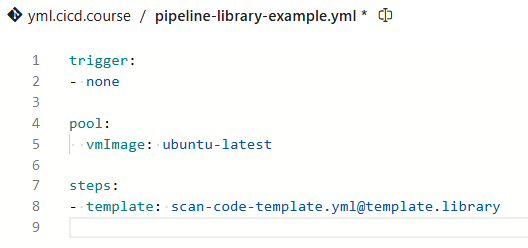
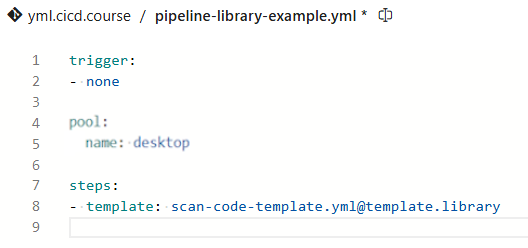
Initial commit

Changed region(s): [[0.1212, 0.4516, 0.5152, 0.621]]

diff --git a/README.md b/README.md
@@ -55,10 +55,10 @@ This workshop will cover a series of labs, in which you will learn to create eff
   <summary>Lab 2 - Tasks, Jobs, Stages and Dependencies</summary>
   
 * [Lab 2 - Tasks, Jobs, Stages and Dependencies](/Labs/lab2/lab2.md)
-  * [Separating Tasks into different Jobs](/Labs/lab2/lab2.md#exercise-21-separating-tasks-into-different-jobs)
-  * [Adding dependencies between Jobs](/Labs/lab2/lab2.md#exercise-22-adding-dependencies-between-jobs)
-  * [Splitting our pipeline into Stages](/Labs/lab2/lab2.md#exercise-23-splitting-our-pipeline-into-stages)
-  * [Dependencies between Stages](/Labs/lab2/lab2.md#exercise-24-adding-dependencies-between-jobs-and-stages)
+  * [Separating tasks into different jobs](/Labs/lab2/lab2.md#exercise-21-separating-tasks-into-different-jobs)
+  * [Adding dependencies between jobs](/Labs/lab2/lab2.md#exercise-22-adding-dependencies-between-jobs)
+  * [Splitting our pipeline into stages](/Labs/lab2/lab2.md#exercise-23-splitting-our-pipeline-into-stages)
+  * [Dependencies between stages](/Labs/lab2/lab2.md#exercise-24-adding-dependencies-between-jobs-and-stages)
   * [Approvals](/Labs/lab2/lab2.md#exercise-25-approvals)
 
 </details>
@@ -69,7 +69,7 @@ This workshop will cover a series of labs, in which you will learn to create eff
 * [Lab 3 - Working with Templates](labs/lab3/lab3.md)
   * [Load steps from templates](/Labs/lab3/lab3.md#exercise-31-load-steps-from-templates)
   * [Reusing stages with templates](/Labs/lab3/lab3.md#exercise-32-reusing-stages-with-templates)
-  * [Conditions](/Labs/lab3/lab3.md#exercise-33-conditions)
+  * [Conditional Execution](/Labs/lab3/lab3.md#exercise-33-conditions)
   * [Skipping stages](labs/lab3/lab3.md#exercise-34-skipping-stages)
 
 </details>
@@ -79,8 +79,8 @@ This workshop will cover a series of labs, in which you will learn to create eff
   
 * [Lab 4 - Triggers](/Labs/lab4/lab4.md)
   * [Working with triggers and branches](/Labs/lab4/lab4.md#exercise-4-1-working-with-triggers-and-branches)
-  * [Working with triggers and path](/Labs/lab4/lab4.md#exercise-42-working-with-triggers-and-path)
-  * [Scheduled Triggers](labs/lab4/lab4.md#exercise-43-scheduled-trigger)
+  * [Working with triggers and paths](/Labs/lab4/lab4.md#exercise-42-working-with-triggers-and-path)
+  * [Schedule Triggers](labs/lab4/lab4.md#exercise-43-scheduled-trigger)
   * [Pull Request Triggers](labs/lab4/lab4.md#exercise-44-pull-request-triggers)
 
 </details>
@@ -90,7 +90,7 @@ This workshop will cover a series of labs, in which you will learn to create eff
 
 * [Lab 5 - More Variables and Parameters](/Labs/lab5/lab5.md)
   * [5.1 Using Parameters](/Labs/lab5/lab5.md#exercise-51-using-parameters)
-  * [5.2 Local Variables](/Labs/lab5/lab5.md#exercise-52-local-variables)
+  * [5.2 Using Local Variables](/Labs/lab5/lab5.md#exercise-52-local-variables)
   * [5.3 Variable Template Files](/Labs/lab5/lab5.md#exercise-53-variable-template-files)
   * [5.4 Predefined Variables](/Labs/lab5/lab5.md#exercise-54-predefined-variables)
   * [5.5 Creating Variables in Code](/Labs/lab5/lab5.md#exercise-55-creating-variables-in-code)
@@ -121,11 +121,11 @@ This workshop will cover a series of labs, in which you will learn to create eff
   <summary>Lab 8 - Splitting CI and CD</summary>
 
 * [Lab 8 - Splitting CI and CD](/Labs/lab8/lab8.md)
-  * [Build pipelines and artifacts](labs/lab8/lab8.md#exercise-81-build-pipelines-and-artifacts)
-  * [Working with build artifacts](labs/lab8/lab8.md#exercise-82-working-with-build-artifacts)
+  * [Creating a Build pipeline and saving the artifacts](labs/lab8/lab8.md#exercise-81-build-pipelines-and-artifacts)
+  * [Creating a Release Pipeline using a pre-built artifact](labs/lab8/lab8.md#exercise-82-working-with-build-artifacts)
 
 </details>
 
 ## Origins
 
-This workshop is loosely based on [https://github.com/heoelri/adopac](a repository) that was initially created by `Rathish Ravikumar <rathishr@microsoft.com>` and `Heyko Oelrichs <heoelri@microsoft.com>` for an internal training and was then updated by `Lyle Luppes <lyleluppes@microsoft.com>` to add more modules and content.
+This workshop is loosely based on [a lab](https://github.com/heoelri/adopac) that was initially created by `Rathish Ravikumar` and `Heyko Oelrichs` of Microsoft for an internal training event, and was then updated by `Lyle Luppes` to add more modules and content.

diff --git a/Labs/lab3/lab3.md b/Labs/lab3/lab3.md
@@ -35,8 +35,6 @@ Let us start..
 
 This will now create new new `Starter pipeline` in our repository.
 
-![New Starter Pipeline](img/010_new_starter_pipeline.png)
-
 Let us give our new pipeline a name that is a bit better than the default azure-pipelines-1-yml.
 
 * Click on the filename
@@ -47,13 +45,15 @@ Let us use `starter-pipeline-with-template.yml`.
 
 ![Renamed Starter Pipeline](img/030_renamed_starter_pipeline.png)
 
-Now that we have created a new pipeline and renamed it successfully, let us now reference to a template that contains our additional steps/tasks.
+Now that we have created a new pipeline and renamed the file successfully, let us reference a template that contains our additional steps/tasks.
 
 To achieve this we can now add the following line to the end of our pipeline:
 
 ```yml
-- template: /.azdo/pipelines/templates/cowsay-template.yml
+- template: /.azdo/pipelines/templates/cowsay-emulated-template.yml
 ```
+
+> Note: in this example we are using the "emulated" cowsay template because Docker is not supported in the hosted lab VMs so therefore it is not available on the self-hosted build agent. You can use the real cowsay-template.yml if you are running a build agent that has access to Docker.
 
 After adding this line to the end of our new pipeline:
 
@@ -129,7 +129,7 @@ This will create a new `Starter pipeline` in our repository. Replace the code wi
 trigger: none
 
 pool:
-  vmImage: 'ubuntu-22.04'
+  name: desktop   # using custom build agent - or - vmImage: 'ubuntu-latest'  # if using Microsoft-hosted agent
 
 stages:
 - stage: linux
@@ -154,7 +154,7 @@ Extend the 'linux' stage with the following code:
     parameters:
       name: 'Linux'
       pool:
-        vmImage: 'ubuntu-22.04'
+        name: desktop   # -or- vmImage: 'ubuntu-22.04' # if MS-hosted agent
 ```
 
 And the 'windows' stage with this:
@@ -165,7 +165,7 @@ And the 'windows' stage with this:
     parameters:
       name: 'Windows'
       pool:
-        vmImage: 'vs2017-win2016'
+        name: desktop   # -or- vmImage: 'vs2017-win2016' # if MS-hosted agent
 ```
 
 Your pipeline should now look like this:
@@ -245,13 +245,13 @@ We now want to modify the following task in our template:
 
 This is the command that failed in our first run. We now want this task only to run in the linux stage. Not in the windows stage.
 
-To achieve this we're going to add a condition (and a display name for the task to make it easier to identify it).
+To achieve this we're going to add a condition (and a display name for the task to make it easier to identify it). We will use one of the predefined variables that tell us what Operating System the agent is running on.
 
 ```yml
   - script: |
       docker run vanessa/cowsay run cowthink
     displayName: 'Docker run command'
-    condition: eq(variables['System.StageName'], 'linux')
+    condition: eq(variables['Agent.OS'], 'Linux')
 ```
 
 > If you're looking for a specific builtin or predefined variable, please have a look on the list of [predefined variables](https://docs.microsoft.com/azure/devops/pipelines/build/variables?view=azure-devops&tabs=yaml#pipeline-variables) on docs.microsoft.com.
@@ -265,8 +265,6 @@ To achieve this we're going to add a condition (and a display name for the task 
 * Click on `Run pipeline`
 * Make sure that the correct branch (3.2) is selected
 * Click on **Build Stage Windows**
-
-Note! There are chances that your job is still queued, during this time keep calm :)
 
 In the job details you'll now see that our stage that previously failed is now not executed as part of the windows stage anymore. Our condition works.
 

diff --git a/Labs/lab2/lab2.md b/Labs/lab2/lab2.md
@@ -25,10 +25,12 @@ At the end of [Lab 1](../lab1/lab1.md), our pipeline had three steps. All of the
 In our previous lab we have created a pipeline using the wizard. The wizard creates a pipeline with a single job, like this:
 
 ```yml
+trigger: 
+  none
 pool:
-  vmImage: 'ubuntu-latest'
+  name: desktop
 steps:
-- bash: echo "Hello world"
+- script: echo Hello world
 ```
 
 This example shows a single job, using Ubuntu 22.04 (Microsoft-hosted agent), containing a single task "bash". We now want to split our previously created pipeline into two jobs.
@@ -43,29 +45,26 @@ trigger: none
 jobs:
 - job: part1
   pool:
-  name: default                # if using custom build agent
-  # vmImage: 'ubuntu-latest'   # if using Microsoft-hosted agents
+    name: desktop   # using custom build agent - or - vmImage: 'ubuntu-latest'  # if using Microsoft-hosted agent
   steps:
   - script: echo Hello, world!
-    displayName: 'Run a one-line script'
+    displayName: Run a one-line script
 
   - script: |
       echo Add other tasks to build, test, and deploy your project.
       echo See https://aka.ms/yaml
-    displayName: 'Run a multi-line script'
+    displayName: Run a multi-line script
 
 - job: part2
   pool:
-  name: default                # if using custom build agent
-  # vmImage: 'ubuntu-latest'   # if using Microsoft-hosted agents
+    name: desktop   # using custom build agent - or - vmImage: 'ubuntu-latest'  # if using Microsoft-hosted agent
   steps:
-  - task: Bash@3
+  - task: CmdLine@2
+    displayName: Run a multi-line command script
     inputs:
-      targetType: 'inline'
       script: |
-        # Write your commands here
-        echo 'Greetings friends!'
-        echo 'Variable: $(variable1)'
+        echo Greetings friends!
+        echo Variable: $(variable1)
 ```
 
 * Click on `Save`
@@ -189,35 +188,31 @@ stages:
   jobs:
   - job: stage1part1
     pool:
-      name: default                # if using custom build agent
-      # vmImage: 'ubuntu-latest'   # if using Microsoft-hosted agents
+      name: desktop   # using custom build agent - or - vmImage: 'ubuntu-latest'  # if using Microsoft-hosted agent
     steps:
     - script: echo Hello, world!
-      displayName: 'Run a one-line script'
+      displayName: Run a one-line script
   - job: stage1part2
     pool:
-      name: default                # if using custom build agent
-      # vmImage: 'ubuntu-latest'   # if using Microsoft-hosted agents
-      steps:
+      name: desktop   # using custom build agent - or - vmImage: 'ubuntu-latest'  # if using Microsoft-hosted agent
+    steps:
       - script: |
           echo Add other tasks to build, test, and deploy your project.
           echo See https://aka.ms/yaml
-        displayName: 'Run a multi-line script'
+        displayName: Run a multi-line script
 
 - stage: stage2
   jobs:
   - job: stage2part1
     pool:
-      name: default                # if using custom build agent
-      # vmImage: 'ubuntu-latest'   # if using Microsoft-hosted agents
+      name: desktop   # using custom build agent - or - vmImage: 'ubuntu-latest'  # if using Microsoft-hosted agent
     steps:
-    - task: Bash@3
+    - task: CmdLine@2
+      displayName: Run a multi-line command script
       inputs:
-        targetType: 'inline'
         script: |
-          # Write your commands here
-          echo 'Greetings from Seattle!'
-          echo 'Variable: $(variable1)'
+          echo Greetings friends!
+          echo Variable: $(variable1)
 ```
 
 * Click `Save`, default to  `Commit directly to the main branch`, and click `Save`

diff --git a/Labs/lab4/lab4.md b/Labs/lab4/lab4.md
@@ -59,8 +59,7 @@ First lets create a couple of branches to work with.
         - team2/*
 
     pool:
-      name: default                # if using custom build agent
-      # vmImage: 'ubuntu-latest'   # if using Microsoft-hosted agents
+      name: desktop   # using custom build agent - or - vmImage: 'ubuntu-latest'  # if using Microsoft-hosted agent
 
     steps:
     - script: echo Hello, world!
@@ -222,7 +221,7 @@ schedules:
     include:
     - main
 pool:
-  vmImage: ubuntu-latest
+  name: desktop   # using custom build agent - or - vmImage: 'ubuntu-latest'  # if using Microsoft-hosted agent
 stages:
 - stage: ScanApplication
   jobs:
@@ -302,7 +301,7 @@ Replace the code provided with the following:
 trigger:
  - pr
 pool:
-  vmImage: ubuntu-latest
+  name: desktop   # using custom build agent - or - vmImage: 'ubuntu-latest'  # if using Microsoft-hosted agent
 
 stages:
 - stage: ScanApplication

diff --git a/Labs/lab5/lab5.md b/Labs/lab5/lab5.md
@@ -103,7 +103,7 @@ Create a new pipeline (or you can keep reusing an adding to your previous one...
 trigger:
 - none
 pool:
-  vmImage: ubuntu-latest
+  name: desktop   # using custom build agent - or - vmImage: 'ubuntu-latest'  # if using Microsoft-hosted agent
 variables:
   - name: templatePath
     value: '$(Build.SourcesDirectory)/.azdo/pipelines/templates'
@@ -165,7 +165,7 @@ Then replace the contents of the pipeline with this code that references your va
 trigger:
 - none
 pool:
-  vmImage: ubuntu-latest
+  name: desktop   # using custom build agent - or - vmImage: 'ubuntu-latest'  # if using Microsoft-hosted agent
 variables:
   - template: /.azdo/pipelines/vars/project-locations.yml
   - name: projectFullName

diff --git a/Labs/lab7/lab7.md b/Labs/lab7/lab7.md
@@ -53,8 +53,7 @@ trigger:
 - none
 
 pool:
-  vmImage: ubuntu-latest
-
+  name: desktop   # using custom build agent - or - vmImage: 'ubuntu-latest'  # if using Microsoft-hosted agent
 
 stages:
   - template: templates/scan-code-template.yml@template.library

diff --git a/Labs/lab6/lab6.md b/Labs/lab6/lab6.md
@@ -73,7 +73,7 @@ trigger:
  - none
 
 pool:
-  vmImage: ubuntu-latest
+  name: desktop   # using custom build agent - or - vmImage: 'ubuntu-latest'  # if using Microsoft-hosted agent
 
 variables:
   - template: /.azdo/pipelines/vars/bicep-locations.yml
